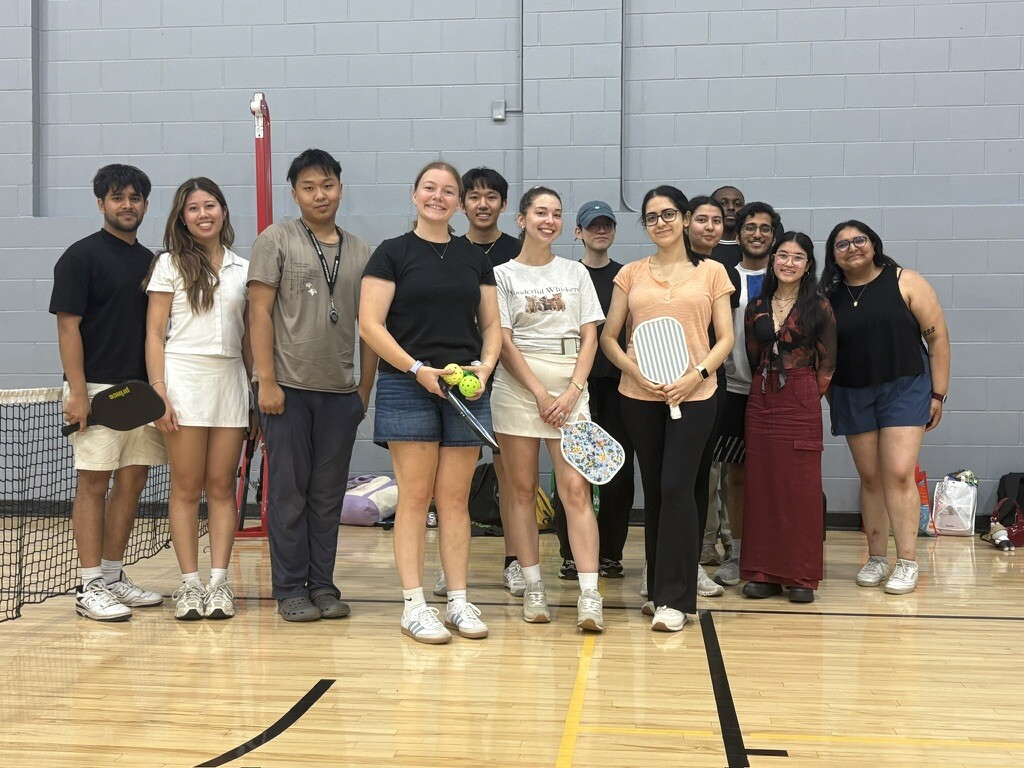
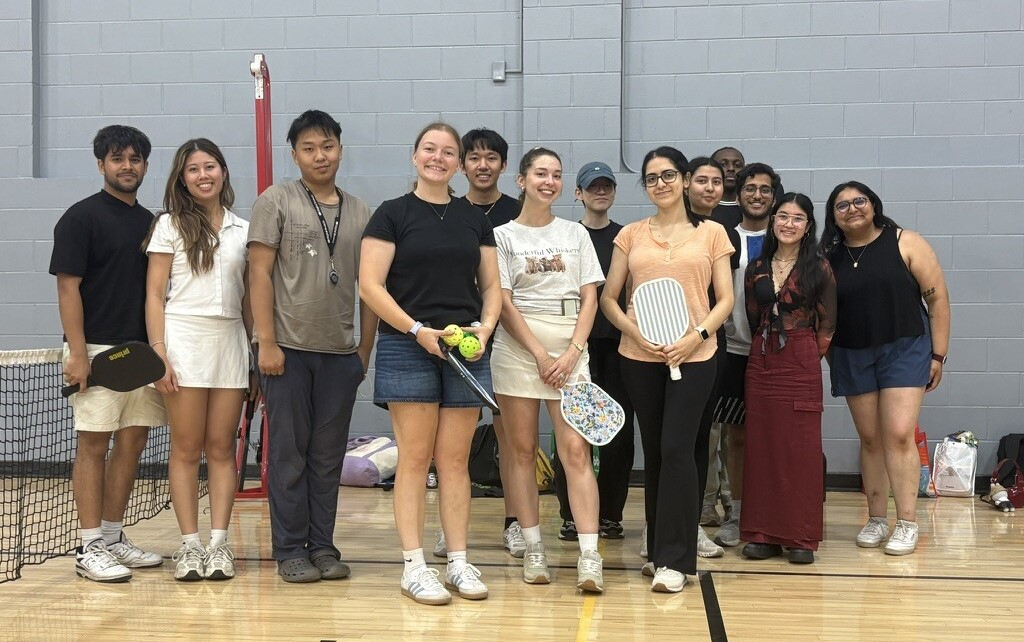
wip
adjusted photo heights

diff --git a/_pages/gallery.md b/_pages/gallery.md
@@ -34,8 +34,8 @@ _styles: |
   }
 
   .gallery-tile.feature {
-    grid-column: span 6;
-    grid-row: span 5;
+    grid-column: span 12;
+    grid-row: span 6;
   }
 
   .gallery-tile img {
